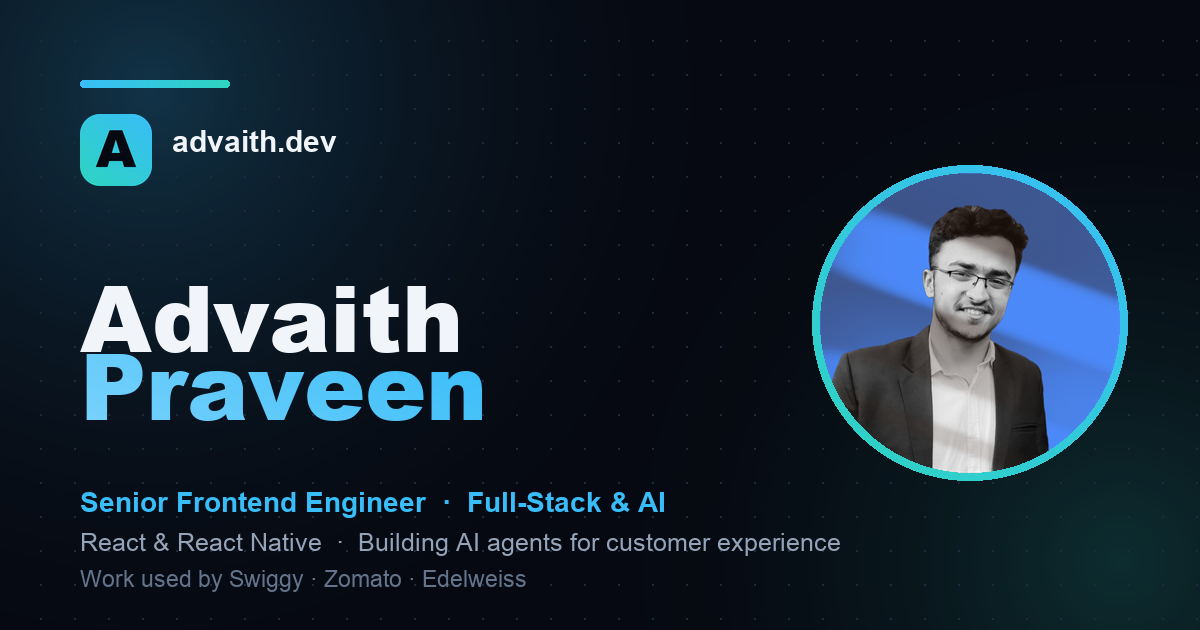
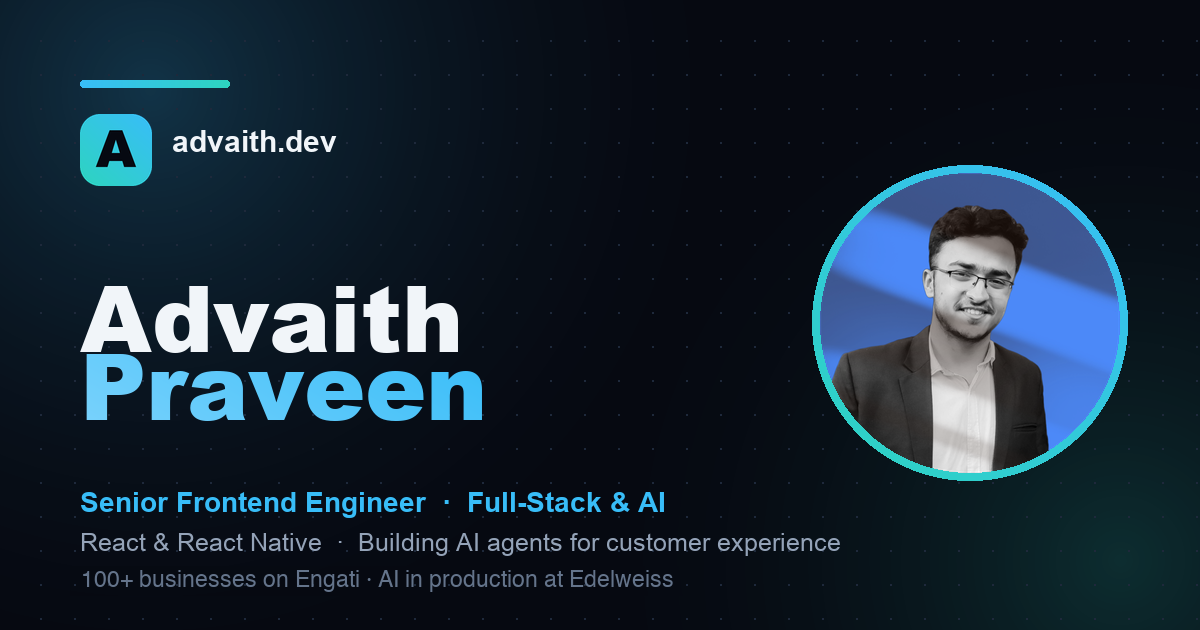
Lead with current impact: Engati scale, Edelweiss in production
- Hero: currently at Engati, work reaching 100+ businesses, AI assistant
  in production at Edelweiss; Swiggy/Zomato framed as earlier work
- Logo strip: 'Brands that have used my work', with a '100+ businesses
  on Engati' item after each set instead of borrowing customer logos
- Meta descriptions and social preview image updated to match

Changed region(s): [[0.0617, 0.9048, 0.555, 0.9349]]

diff --git a/src/views/Clients.tsx b/src/views/Clients.tsx
@@ -85,11 +85,11 @@ const Clients = () => {
   return (
     <section
       id="clients"
-      aria-label="Brands and teams that have used software I built"
+      aria-label="Brands that have used my work"
       className="relative border-t border-stroke py-14 overflow-hidden"
     >
       <p className="text-center font-mono text-sm tracking-[0.2em] uppercase text-textMuted mb-10">
-        Software I built, used by
+        Brands that have used my work
       </p>
 
       <div
@@ -100,7 +100,7 @@ const Clients = () => {
           style={{ x }}
           className="flex w-max items-center gap-20 pr-20"
         >
-          {marqueeItems.map((client, index) => (
+          {marqueeItems.map((client, index) => [
             <img
               key={`${client.name}-${index}`}
               src={client.img}
@@ -112,8 +112,18 @@ const Clients = () => {
               className={`h-12 sm:h-14 w-auto max-w-[140px] object-contain opacity-60 ${
                 client.invertOnDark ? "invert-on-dark" : ""
               } hover:opacity-100 transition-opacity duration-300`}
-            />
-          ))}
+            />,
+            // After each full set of logos: the scale beyond named brands,
+            // without borrowing other companies' logos
+            index % clients.length === clients.length - 1 && (
+              <span
+                key={`scale-${index}`}
+                className="shrink-0 whitespace-nowrap font-display text-lg sm:text-xl font-semibold text-textSecondary"
+              >
+                <span className="gradient-text">100+</span> businesses on Engati
+              </span>
+            ),
+          ])}
         </motion.div>
       </div>
     </section>

diff --git a/public/index.html b/public/index.html
@@ -86,7 +86,7 @@
     <meta name="theme-color" content="#060911" />
     <meta
       name="description"
-      content="Advaith Praveen — frontend-leaning full-stack engineer. React &amp; React Native on the frontend, Java and Python services behind them, and AI agents for customer experience. Work used by teams at Swiggy, Zomato and Edelweiss."
+      content="Advaith Praveen — frontend-leaning full-stack engineer. React &amp; React Native on the frontend, Java and Python services behind them, and AI agents for customer experience. Work that reaches 100+ businesses on Engati, with an AI assistant in production at Edelweiss."
     />
     <meta name="author" content="Advaith Praveen" />
     <link rel="canonical" href="https://advp7.github.io/portfolio/" />
@@ -97,7 +97,7 @@
     <meta property="og:title" content="Advaith Praveen — Senior Frontend Engineer, Full-Stack &amp; AI" />
     <meta
       property="og:description"
-      content="Frontend-leaning full-stack engineer. React &amp; React Native on the frontend, Java and Python services behind them, and AI agents for customer experience. Work used by teams at Swiggy, Zomato and Edelweiss."
+      content="Frontend-leaning full-stack engineer. React &amp; React Native on the frontend, Java and Python services behind them, and AI agents for customer experience. Work that reaches 100+ businesses on Engati, with an AI assistant in production at Edelweiss."
     />
     <!-- og:image must be an ABSOLUTE url — crawlers cannot resolve relative paths -->
     <meta

diff --git a/src/views/Hero.tsx b/src/views/Hero.tsx
@@ -160,9 +160,10 @@ const Hero = () => {
             </span>{" "}
             I build polished web and mobile products with React and React
             Native — and ship the Java and Python services behind them.
-            Currently building AI agents for customer experience; my work runs
-            in production at Edelweiss and has been used by teams at Swiggy and
-            Zomato.
+            Currently at Engati, building AI agents for customer experience —
+            my work reaches 100+ businesses on the platform, and the AI
+            assistant I built runs in production at Edelweiss. Earlier, I built
+            tools used by teams at Swiggy and Zomato.
           </motion.p>
 
           <motion.div
